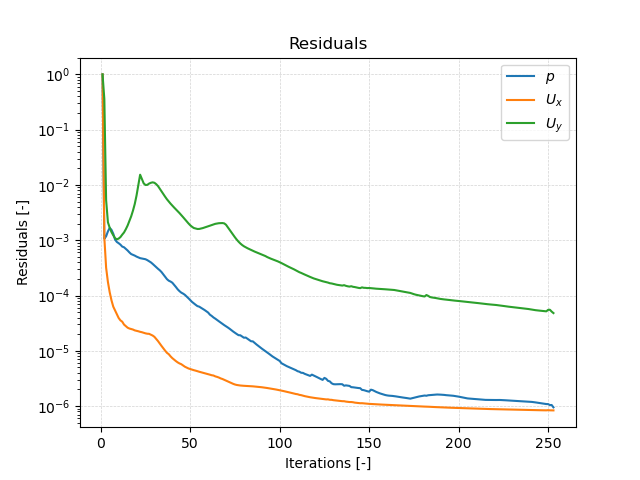
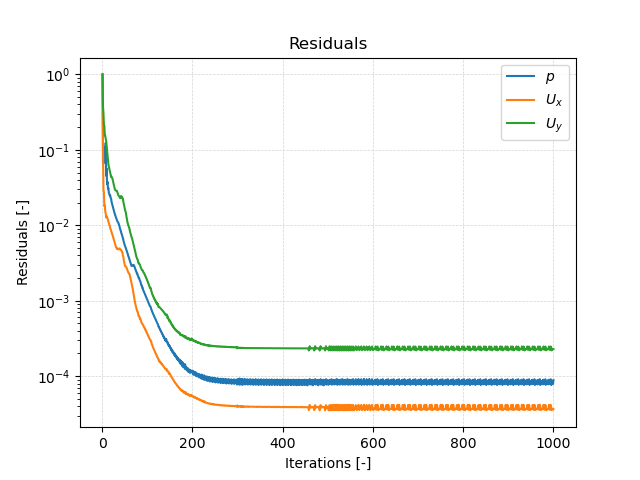
airfoil: turbulence modelling changed to kOmegaSST

diff --git a/4_airfoil/1_preprocessing.md b/4_airfoil/1_preprocessing.md
@@ -24,7 +24,7 @@ A case being simulated involves data for mesh, fields, properties, control param
 │   └── physicalProperties
 ├── experimental_data
 │   ├── lift_drag_coefficient.csv
-│   └── pressure_coefficient
+│   └── pressure_coefficient.csv
 ├── system
 │   ├── controlDict
 │   ├── functions
@@ -111,56 +111,65 @@ Create polyMesh for time = 0
 Time = 0s
 
 Mesh stats
-    points:           115648
+    points:           62516
     internal points:  0
-    faces:            229856
-    internal faces:   114208
-    cells:            57344
+    faces:            124138
+    internal faces:   61622
+    cells:            30960
     faces per cell:   6
     boundary patches: 3
     point zones:      0
     face zones:       0
     cell zones:       0
 
-...
+Overall number of cells of each type:
+    hexahedra:     30960
+    prisms:        0
+    wedges:        0
+    pyramids:      0
+    tet wedges:    0
+    tetrahedra:    0
+    polyhedra:     0
+
+Checking topology...
+    Boundary definition OK.
+    Cell to face addressing OK.
+    Point usage OK.
+    Upper triangular ordering OK.
+    Face vertices OK.
+    Number of regions: 1 (OK).
 
 Checking patch topology for multiply connected surfaces...
     Patch               Faces    Points   Surface topology                  
-    frontAndBack        114688   115648   ok (non-closed singly connected)  
-    airfoil             256      512      ok (non-closed singly connected)  
-    farfield            704      1408     ok (non-closed singly connected)  
+    airfoil             98       196      ok (non-closed singly connected)  
+    farfield            498      996      ok (non-closed singly connected)  
+    frontAndBackPlanes  61920    62516    ok (non-closed singly connected)  
 
 Checking geometry...
-
-    Overall domain bounding box (-484.457 -507.806 0) (501 507.806 1)
+    Overall domain bounding box (-19.9998 -20 -0.565684) (20 20 0.565684)
     Mesh has 2 geometric (non-empty/wedge) directions (1 1 0)
     Mesh has 2 solution (non-empty) directions (1 1 0)
     All edges aligned with or perpendicular to non-empty directions.
- ***High aspect ratio cells found, Max aspect ratio: 2.98998e+07, number of cells 7320
-    Minimum face area = 5.18207e-10. Maximum face area = 3181.85.  Face area magnitudes OK.
-    Min volume = 5.18207e-10. Max volume = 3181.85.  Total volume = 875555.  Cell volumes OK.
-    Mesh non-orthogonality Max: 52.3838 average: 5.03403
+    Max cell openness = 2.99654e-16 OK.
+    Max aspect ratio = 77.2122 OK.
+    Minimum face area = 3.58722e-06. Maximum face area = 1.09189.  Face area magnitudes OK.
+    Min volume = 4.05847e-06. Max volume = 0.306851.  Total volume = 1615.42.  Cell volumes OK.
+    Mesh non-orthogonality Max: 43.7468 average: 13.5331
     Non-orthogonality check OK.
     Face pyramids OK.
-    Max skewness = 0.341413 OK.
+    Max skewness = 0.412995 OK.
     Coupled point location match (average 0) OK.
 
-Failed 1 mesh checks.
+Mesh OK.
 ```
 
 This gives us all relevant mesh statistics and quality criteria of the mesh:
 
-- The mesh consists of 57344 hexahedral cells,
-- has three different boundary patches `farfield`, `airfoil`, and `frontAndBack`, and
+- The mesh consists of 30960 hexahedral cells,
+- has three different boundary patches `farfield`, `airfoil`, and `frontAndBackPlanes`, and
 - has two solution directions, i.e., a two-dimensional mesh.
 
-As this is a hexahedral, block-structured mesh, maximum non-orthogonality and skewness are good with 52.38 and 0.34, respectively. However, aspect ratio reaches extreme values with nearly $$30 \times 10^6$$. This comes from:
- 1. Very high near-wall mesh resolution for resolving the turbulent boundary layer
- 2. Maintained clustering of cells downstream of the trailing edge due to the C-grid topology of the block-structured mesh.
-
-While this contradicts the recommended values of maximum aspect ratio of 1000, this is not an issue for this simulation. High aspect ratio cells are only problematic when they are stretched across the direction of large solution gradients. In boundary layer and wake flows, the solution gradients are overwhelmingly in the wall-normal direction (velocity changes from zero at the wall to the freestream value over a short distance). The gradients in the streamwise direction are comparatively small (the flow changes slowly along the airfoil surface and downstream in the wake).
-
-So despite the fact that `checkMesh` fails due to aspect ratio, we can continue with this mesh.
+As this is a hexahedral, block-structured mesh, maximum non-orthogonality, skewness, and aspect ratio are very good with 42.75, 77.2, and 0.41, respectively.
 
 
 
@@ -234,10 +243,6 @@ boundaryField
     {
         type            noSlip;
     }
-    frontAndBack
-    {
-        type            empty;
-    }
 }
 ```
 
@@ -269,11 +274,6 @@ boundaryField
     airfoil
     {
         type            zeroGradient;
-    }
-
-    frontAndBack
-    {
-        type            empty;
     }
 }
 ```
@@ -380,14 +380,15 @@ gradSchemes
 
 The discretization of the convective terms is defined within the `divSchemes` keyword. Here, `div(phi,U)` refers to the discretization of the convective flux $$\partial(u_i u_j)/\partial x_j$$ with `phi` being the (volumetric) flux and `U` the variable transported by the flux. In this case, the **second order upwind scheme** is employed called `Gauss linearUpwindV` combined with a non-limited Gauss linear gradient scheme.
 
-One additional entry is required for the discretization of the convective flux $$\partial(\tilde{\nu} u_j)/\partial x_j$$ for the modified turbulent viscosity $$\tilde{\nu}$$. Similar to the convective flux of momentum, a bounded second order upwind scheme is used.
+Two additional entries is required for the discretization of the convective flux for the turbulent quantities, namely turbulent kinetic energy $$k$$ and specific dissipation rate $$\omega$$. Similar to the convective flux of momentum, a bounded second order upwind scheme is used.
 
 ```
 divSchemes
 {
     div(phi,U)      bounded Gauss linearUpwindV Gauss linear;
-    
-    div(phi,nuTilda) bounded Gauss linearUpwind grad(nuTilda);
+
+    div(phi,k)      bounded Gauss linearUpwind Gauss linear;
+    div(phi,omega)  bounded Gauss linearUpwind Gauss linear;
 }
 ```
 
@@ -432,7 +433,15 @@ solvers
         relTol          0.1;
     }
 
-    nuTilda
+    k
+    {
+        solver          smoothSolver;
+        smoother        GaussSeidel;
+        tolerance       1e-08;
+        relTol          0.1;
+    }
+
+    omega
     {
         solver          smoothSolver;
         smoother        GaussSeidel;
@@ -450,17 +459,19 @@ The `SIMPLE` block configures the outer pressure-velocity coupling loop for this
 ```
 SIMPLE
 {
+    consistent          yes;
+
     residualControl
     {
-        p               1e-4;
-        U               1e-5;
+        p               5e-5;
+        U               5e-5;
     }
 }
 ```
 
 ### Relaxation factors
 
-The `relaxationFactors` block stabilises the iterative process by blending each new solution with the previous one. The distinction between fields and equations is where the blending is applied: fields modifies the solution field directly after solving (here, pressure is unrelaxed at 1.0, enabled by SIMPLEC), while equations modifies the linear system itself before solving, which is numerically more stable for transport equations like momentum and the Spalart-Allmaras turbulence variable (both damped to 0.9, meaning each update retains 10% of the old solution).
+The `relaxationFactors` block stabilises the iterative process by blending each new solution with the previous one. The distinction between fields and equations is where the blending is applied: fields modifies the solution field directly after solving (here, pressure is unrelaxed at 1.0, enabled by SIMPLEC), while equations modifies the linear system itself before solving, which is numerically more stable for transport equations like momentum and the SST $$k-\omega$$ turbulence variables: velocity damped to 0.9, and turbulent kinetic energy and specific dissipation rate to 0.85.
 
 ```
 relaxationFactors
@@ -472,7 +483,8 @@ relaxationFactors
     equations
     {
         U               0.9;
-        nuTilda         0.9;
+        k               0.85;
+        omega           0.85;
     }
 }
 ```

diff --git a/4_airfoil/2_solving.md b/4_airfoil/2_solving.md
@@ -19,24 +19,25 @@ foamRun
 The progress of the job is written to the terminal window. It displays the current time step, the equations being solved, initial and final residuals for all fields and should look like follows:
 
 ```
-Time = 193s
+Time = 601s
 
-smoothSolver:  Solving for Ux, Initial residual = 9.40633e-07, Final residual = 8.42048e-08, No Iterations 12
-smoothSolver:  Solving for Uy, Initial residual = 8.43303e-05, Final residual = 7.98603e-06, No Iterations 13
-GAMG:  Solving for p, Initial residual = 1.57496e-06, Final residual = 8.68318e-07, No Iterations 2
-time step continuity errors : sum local = 1.27921e-08, global = -3.35755e-10, cumulative = -1.04265e-05
-smoothSolver:  Solving for nuTilda, Initial residual = 9.51434e-05, Final residual = 8.24927e-06, No Iterations 12
-bounding nuTilda, min: -2.78755e-05 max: 0.00360778 average: 0.000297013
-ExecutionTime = 18.8741 s  ClockTime = 19 s
+smoothSolver:  Solving for Ux, Initial residual = 3.70246e-05, Final residual = 2.66767e-07, No Iterations 1
+smoothSolver:  Solving for Uy, Initial residual = 0.000231212, Final residual = 9.04663e-07, No Iterations 1
+GAMG:  Solving for p, Initial residual = 8.11745e-05, Final residual = 8.05042e-06, No Iterations 2
+time step continuity errors : sum local = 1.87176e-06, global = 3.47601e-07, cumulative = 0.00244445
+smoothSolver:  Solving for omega, Initial residual = 2.36428e-19, Final residual = 2.36428e-19, No Iterations 0
+smoothSolver:  Solving for k, Initial residual = 0.0077071, Final residual = 0.000133732, No Iterations 2
+bounding k, min: -0.476601 max: 31.7883 average: 0.12704
+ExecutionTime = 23.5851 s  ClockTime = 25 s
 ```
 
-This output at iteration 193 tells us in summary:
-- The `smoothSolver` solver is used to solve the velocity components `Ux` and `Uy` in $$x$$- and $$y$$-direction and the modified turbulent viscosity $$\tilde{\nu}$$. In this iteration, the smoothSolver requires between 12 and 13 inner iterations to reach the specified residual criteria. The solver automatically detects and reports unphysical negative modified turbulent viscosity values and bounds them.
+This output at iteration 601 tells us in summary:
+- The `smoothSolver` solver is used to solve the velocity components `Ux` and `Uy` in $$x$$- and $$y$$-direction, the turbulent kinetic energy $$k$$, and specific dissipation rate $$\omega$$. In this iteration, the smoothSolver requires between 1 and 2 inner iterations to reach the specified residual criteria. The solver automatically detects and reports unphysical negative turbulent kinetic energy values and bounds them.
 - The `GAMG` multigrid solver is used for solving the pressure Poisson equation in the pressure-velocity coupling algorithm.
 - The error of the conservation of mass is denoted as `continuity error`. Since its value is very small, conservation of mass is maintained.
 - The execution time for the simulation up until this iteration is roughly 19 seconds as indicated by the `ExecutionTime`.
 
-After 253 iterations, the simulation automatically stops as the residuals fall below the specified residual criteria in `fvSolution`.
+The simulation does not converge within the 1000 iterations as residuals do not fall below the specified residual criteria in `fvSolution`.
 
 
 ## Monitoring the Simulation
